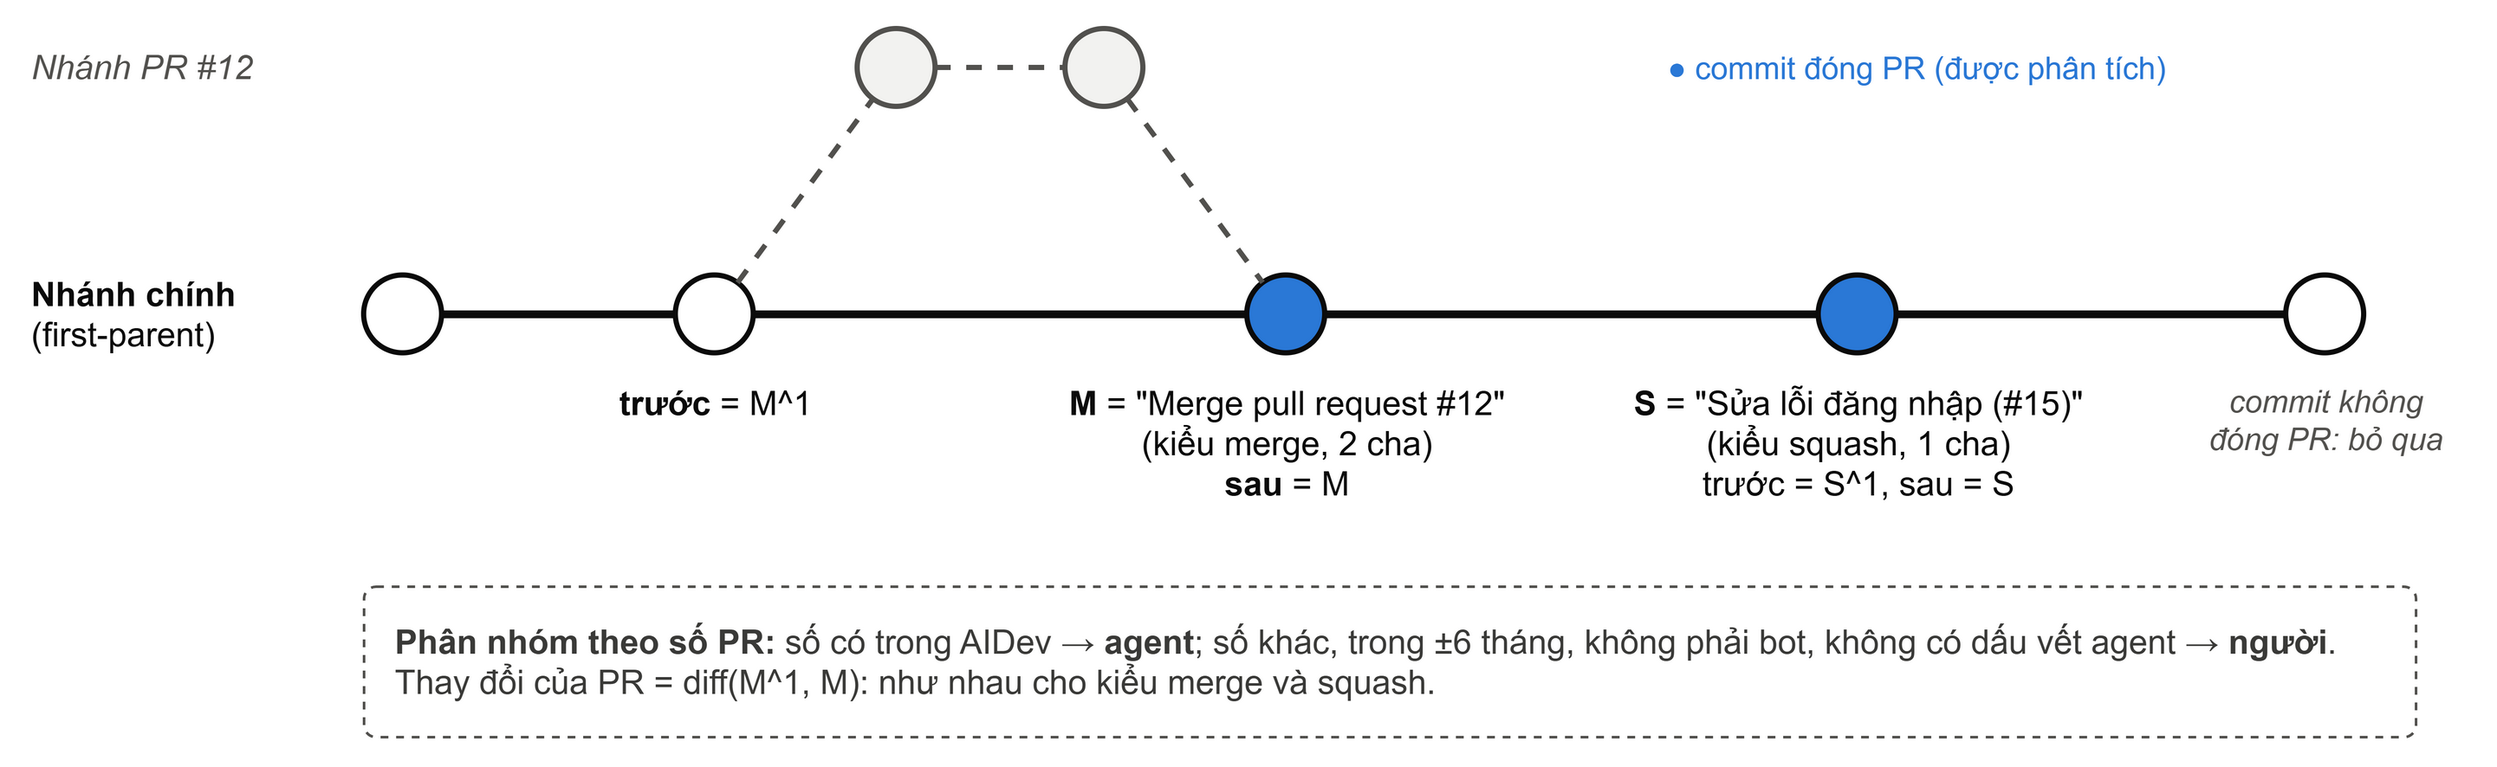
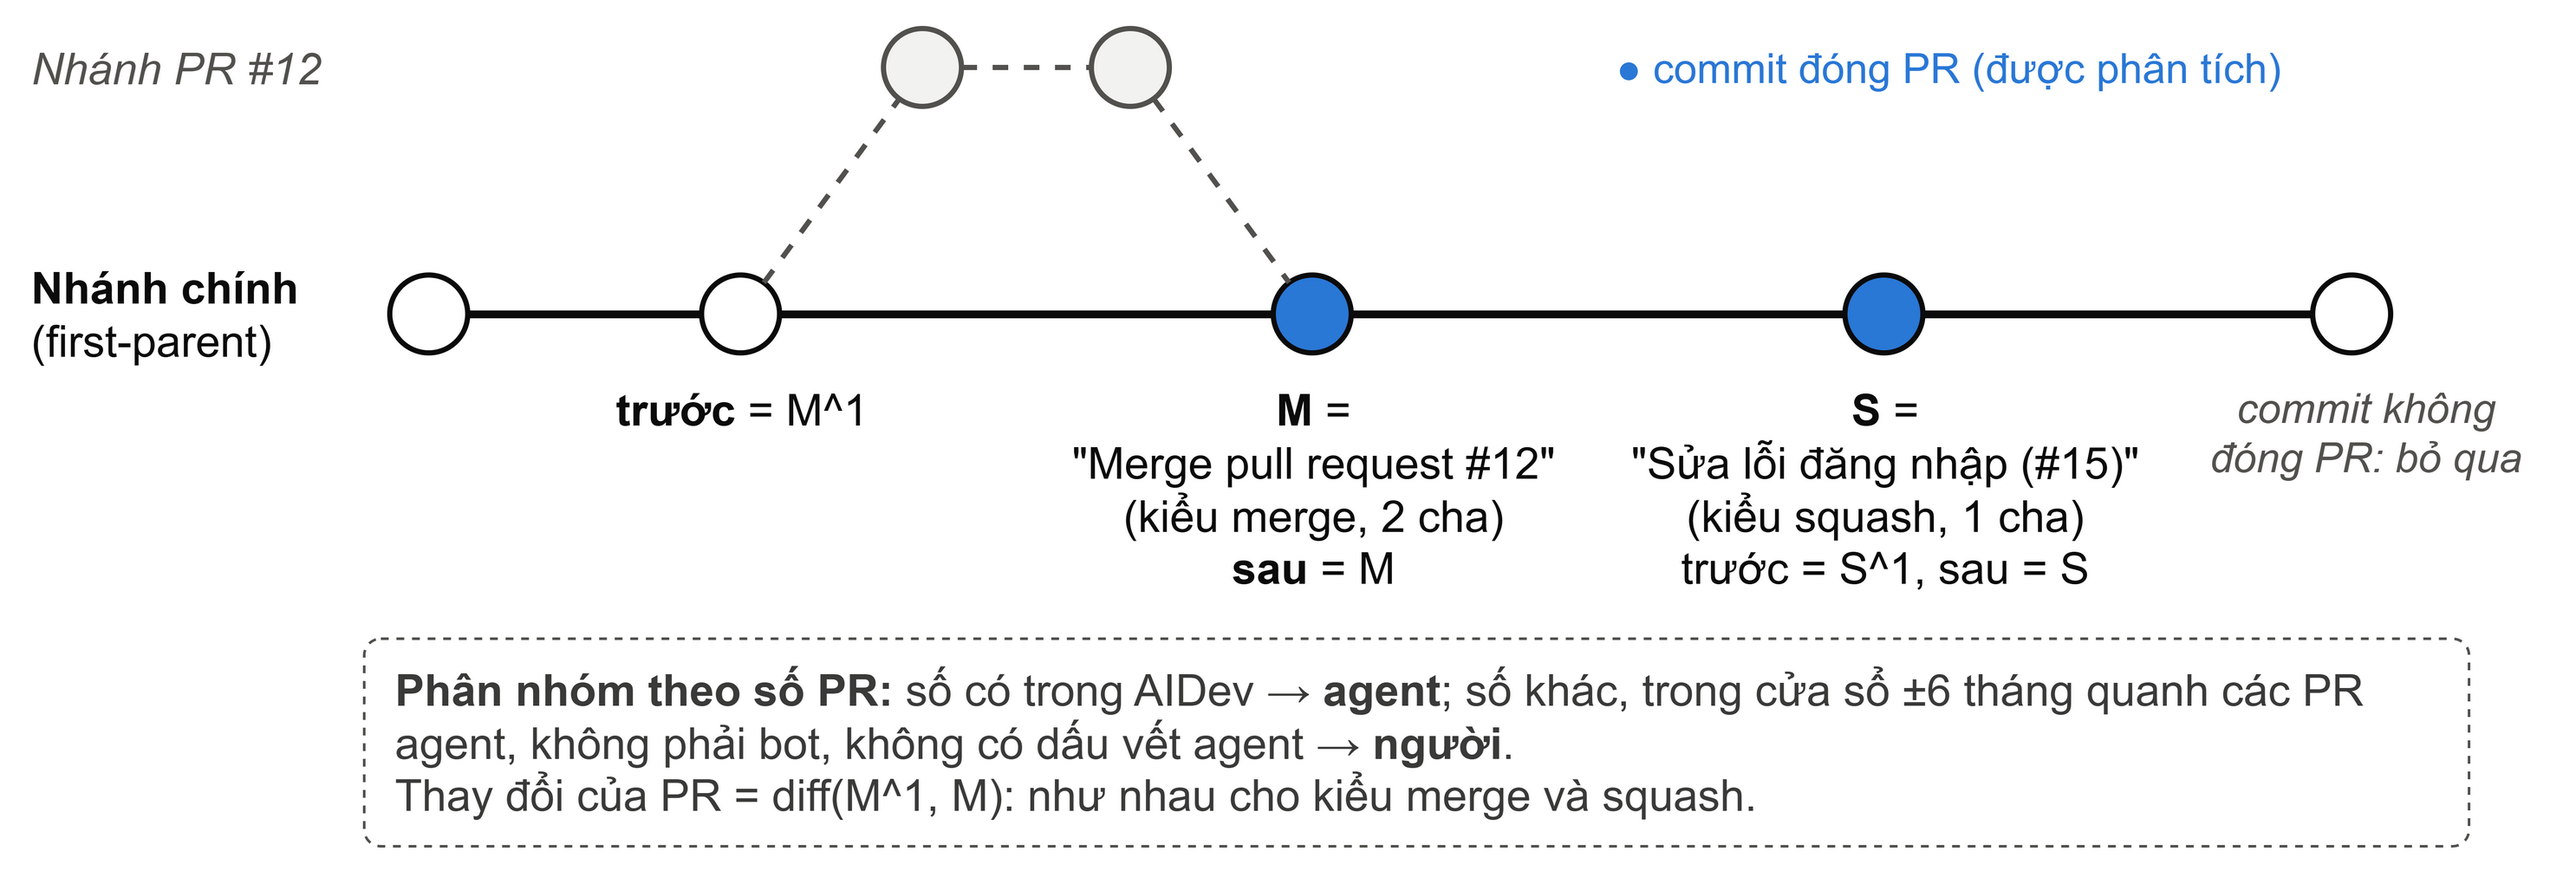
docs(figures): enlarge text in the method diagrams

diff --git a/scripts/08_numbers.py b/scripts/08_numbers.py
@@ -28,7 +28,7 @@ def n(x: float) -> str:
 def d(x: float, k: int = 2) -> str:
     if x is None or (isinstance(x, float) and math.isnan(x)):
         return "–"
-    return f"{x:.{k}f}".replace(".", ",")
+    return f"{x:.{k}f}".replace(".", ",").replace("-", "−")  # typographic minus sign
 
 
 def pct(x: float, k: int = 1) -> str:
@@ -233,6 +233,9 @@ def main() -> int:
     sample = ok[ok["repo"].isin(both[both.apply(lambda g: {"agent", "human"} <= g)].index)]
     # Repositories with measured agent PRs but no eligible human PR drop out of the comparison.
     lost = ok[ok["repo"].isin(both[both.apply(lambda g: "human" not in g)].index) & (ok["group"] == "agent")]["repo"].value_counts()
+    sa = sample[sample["group"] == "agent"]
+    codex_share = (sa["agent"] == "OpenAI_Codex").mean()
+    v |= {"CODEX_N": n((sa["agent"] == "OpenAI_Codex").sum()), "CODEX_SHARE": pct(codex_share, 0)}
     v |= {"NOHUMAN_REPOS": n(len(lost)), "NOHUMAN_AGENT_PRS": n(lost.sum()),
           "NOHUMAN_TOP_REPO": lost.index[0] if len(lost) else "", "NOHUMAN_TOP_PRS": n(lost.iloc[0]) if len(lost) else "0"}
     pos = sample[sample["added_edges"] > 0]
@@ -278,6 +281,7 @@ def main() -> int:
                  and q4.loc["new_cycle (rate)", "rate_human"] > 5 * strata[(strata["stratum"] == "Q1") & (strata["metric"] == "new_cycle (rate)")]["rate_human"].iloc[0]),
         "Data: close to half of measured agent PRs are in repositories without human PRs (\"Gần một nửa\")":
             0.4 <= lost.sum() / (ok["group"] == "agent").sum() < 0.5,
+        "Data: OpenAI Codex is close to half of the agent sample (\"gần một nửa\")": 0.4 <= codex_share < 0.5,
         "Data: agent PRs larger than human PRs (median LOC)": t1.loc["agent", "median_loc"] > t1.loc["human", "median_loc"],
         "Size strata: Q4 added-edge share lower for agents and significant":
             q4.loc["added_edges", "share_pos_agent"] < q4.loc["added_edges", "share_pos_human"]
